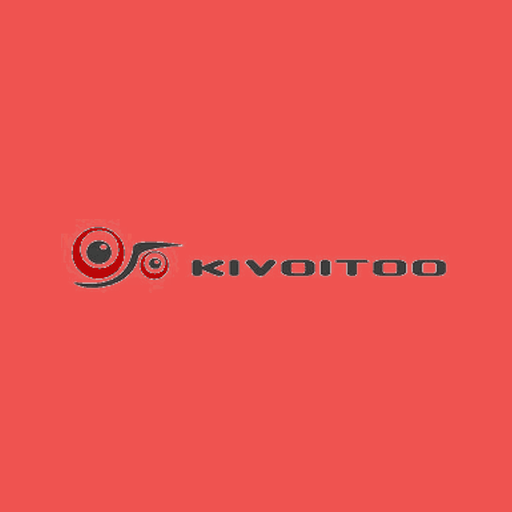
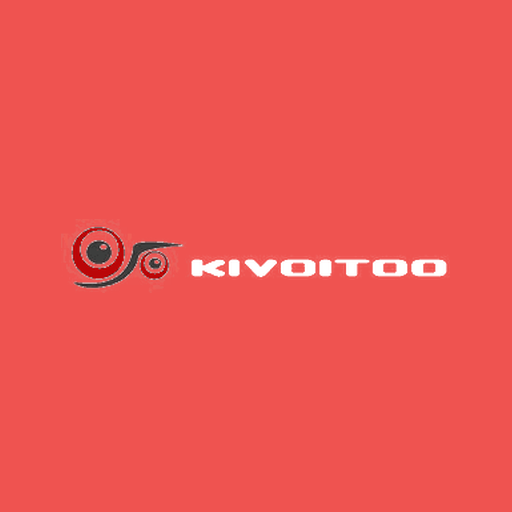
Icône : texte KIVOITOO en blanc
Claude-Session: https://claude.ai/code/session_01STS23CjW94eWRQe29VV8zB

Changed region(s): [[0.375, 0.5, 0.875, 0.5625]]

diff --git a/sw.js b/sw.js
@@ -1,6 +1,6 @@
 /* Fiche intervention Kivoitoo : garde l'appli dans le téléphone pour l'ouvrir même sans réseau.
    Ouverture instantanée depuis la mémoire, puis mise à jour discrète en arrière-plan. */
-const VERSION = 'fiche-v3';
+const VERSION = 'fiche-v4';
 const FICHIERS = ['./', 'index.html', 'manifest.webmanifest', 'logo.png', 'icone-180.png', 'icone-192.png', 'icone-512.png'];
 
 self.addEventListener('install', e => {
